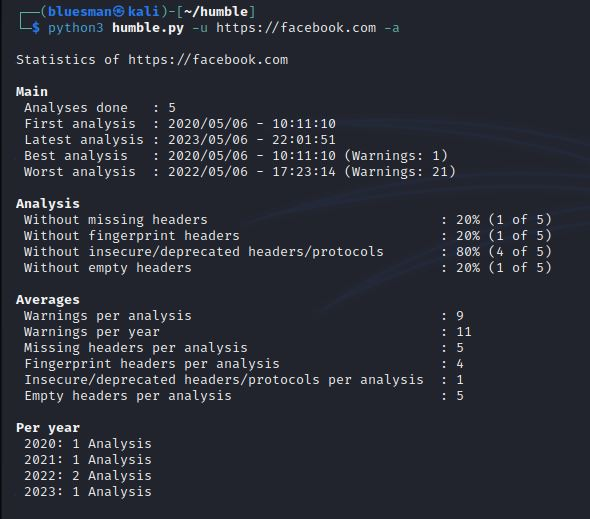
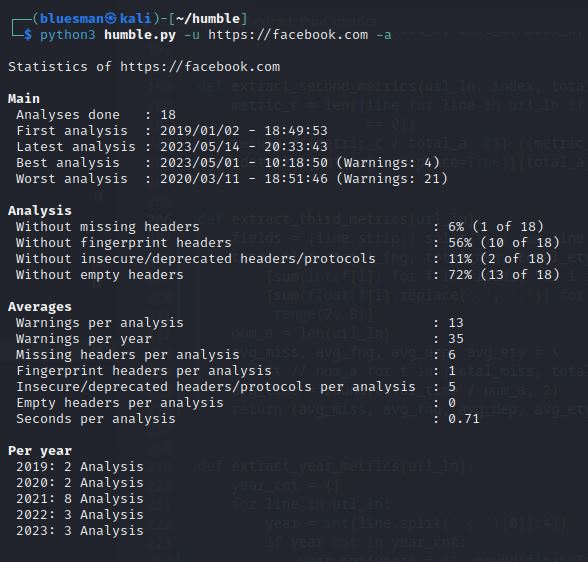
Feature: Store seconds per analysis and show its average in statitics

diff --git a/humble.py b/humble.py
@@ -133,11 +133,11 @@ def get_details_lines():
         return rf.readlines()
 
 
-def save_extract_totals(t_cnt):
+def save_extract_totals(t_cnt, a_time):
     with open(A_FILE, 'a+', encoding='utf8') as a_history, \
          open(A_FILE, 'r', encoding='utf8') as c_history:
         a_history.write(f"{now} ; {URL} ; {m_cnt} ; {f_cnt} ; {i_cnt[0]} ; \
-{e_cnt} ; {t_cnt}\n")
+{e_cnt} ; {t_cnt} ; {a_time}\n")
         url_ln = [line for line in c_history if URL in line]
         if not url_ln:
             return ("First",) * 5
@@ -145,7 +145,7 @@ def save_extract_totals(t_cnt):
         for line in url_ln:
             if date_var in line:
                 _, _, mh_cnt, fh_cnt, ih_cnt, eh_cnt, \
-                    th_cnt = line.strip().split(' ; ')
+                    th_cnt, a_time = line.strip().split(' ; ')
                 break
         return mh_cnt, fh_cnt, ih_cnt, eh_cnt, th_cnt
 
@@ -190,7 +190,7 @@ def extract_first_metrics(url_ln):
     first_a = min(f"{line.split(' ; ')[0]}" for line in url_ln)
     latest_a = max(f"{line.split(' ; ')[0]}" for line in url_ln)
     date_w = [(line.split(" ; ")[0],
-               int(line.strip().split(" ; ")[-1])) for line in url_ln]
+               int(line.strip().split(" ; ")[-2])) for line in url_ln]
     best_d, best_w = min(date_w, key=lambda x: x[1])
     worst_d, worst_w = max(date_w, key=lambda x: x[1])
     return (first_a, latest_a, best_d, best_w, worst_d, worst_w)
@@ -205,12 +205,15 @@ def extract_second_metrics(url_ln, index, total_a):
 
 def extract_third_metrics(url_ln):
     fields = [line.strip().split(';') for line in url_ln]
-    total_miss, total_fng, total_dep, total_ety = \
-        [sum(int(f[i]) for f in fields) for i in range(2, 6)]
+    total_miss, total_fng, total_dep, total_ety, total_time = \
+        [sum(int(f[i]) for f in fields) for i in range(2, 6)] + \
+        [sum(float(f[i].replace(',', '.')) for f in fields) for i in
+         range(7, 8)]
     num_a = len(url_ln)
     avg_miss, avg_fng, avg_dep, avg_ety = \
         [t // num_a for t in (total_miss, total_fng, total_dep, total_ety)]
-    return (avg_miss, avg_fng, avg_dep, avg_ety)
+    avg_time = round(total_time / num_a, 2)
+    return (avg_miss, avg_fng, avg_dep, avg_ety, avg_time)
 
 
 def extract_year_metrics(url_ln):
@@ -218,10 +221,10 @@ def extract_year_metrics(url_ln):
     for line in url_ln:
         year = int(line.split(' ; ')[0][:4])
         if year not in year_cnt:
-            year_cnt[year] = (1, int(line.split(' ; ')[-1]))
+            year_cnt[year] = (1, round(float(line.split(' ; ')[-1])))
         else:
             year_cnt[year] = (year_cnt[year][0] + 1,
-                              year_cnt[year][1] + int(line.split(' ; ')[-1]))
+                              year_cnt[year][1] + int(line.split(' ; ')[-2]))
     years_str = [f" {year}: {year_cnt[year][0]} {get_detail('[analysis_y]')}"
                  for year in sorted(year_cnt.keys())]
     avg_w_y = (sum(count[1] for count in year_cnt.values()) // len(year_cnt))
@@ -229,7 +232,7 @@ def extract_year_metrics(url_ln):
 
 
 def extract_additional_metrics(url_ln):
-    avg_w = int(sum(int(line.split(' ; ')[-1]) for line in url_ln) /
+    avg_w = int(sum(int(line.split(' ; ')[-2]) for line in url_ln) /
                 len(url_ln))
     year_a, avg_w_y = extract_year_metrics(url_ln)
     return (avg_w, year_a, avg_w_y)
@@ -265,7 +268,8 @@ def print_metrics(total_a, first_m, second_m, third_m, additional_m):
                  '[average_warnings_year]': f"{additional_m[2]}"}
     averages_m = {'[average_miss]': f"{third_m[0]}", '[average_fng]':
                   f"{third_m[1]}", '[average_dep]': f"{third_m[2]}",
-                  '[average_ety]': f"{third_m[3]}\n"}
+                  '[average_ety]': f"{third_m[3]}",
+                  '[average_time]': f"{third_m[4]}\n"}
     analysis_year_m = {'[analysis_year]': f"\n{additional_m[1]}"}
     totals_m = basic_m | error_m | warning_m | averages_m | analysis_year_m
     return {get_detail(key, replace=True): value for key, value in
@@ -276,10 +280,11 @@ def analysis_time():
     print(".:")
     print("")
     print_detail_l('[analysis_time]')
-    print(round(end - start, 2), end="")
+    a_time = round(end - start, 2)
+    print(a_time, end="")
     print_detail_l('[analysis_time_sec]')
     t_cnt = m_cnt + f_cnt + i_cnt[0] + e_cnt
-    mh_cnt, fh_cnt, ih_cnt, eh_cnt, th_cnt = save_extract_totals(t_cnt)
+    mh_cnt, fh_cnt, ih_cnt, eh_cnt, th_cnt = save_extract_totals(t_cnt, a_time)
     mhr_cnt, fhr_cnt, ihr_cnt, ehr_cnt,\
         thr_cnt = compare_totals(mh_cnt, m_cnt, fh_cnt, f_cnt, ih_cnt, i_cnt,
                                  eh_cnt, e_cnt, th_cnt, t_cnt)
